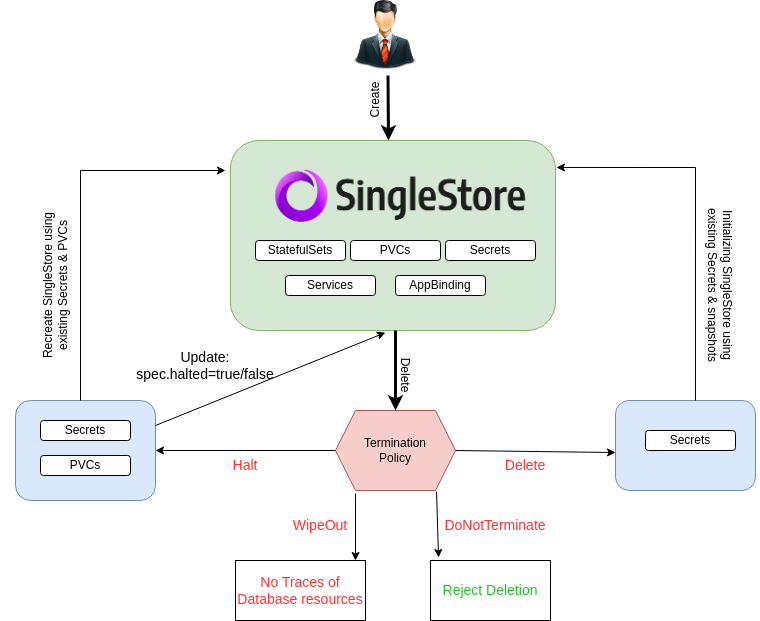
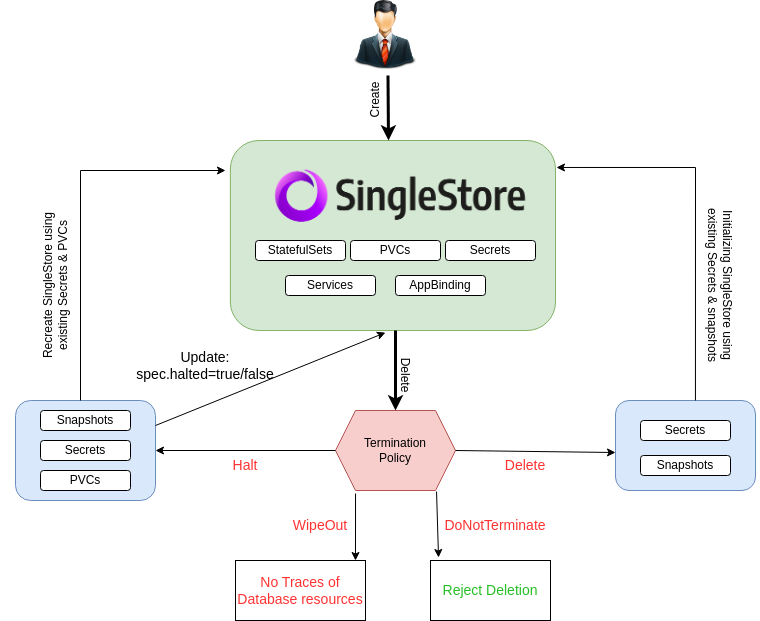
Fixed Review stuffs

Changed region(s): [[0.0303, 0.6425, 0.1816, 0.7955], [0.8171, 0.6731, 0.9684, 0.7649]]

diff --git a/docs/guides/singlestore/quickstart/quickstart.md b/docs/guides/singlestore/quickstart/quickstart.md
@@ -26,8 +26,7 @@ This tutorial will show you how to use KubeDB to run a SingleStore database.
 
 - At first, you need to have a Kubernetes cluster, and the kubectl command-line tool must be configured to communicate with your cluster. If you do not already have a cluster, you can create one by using [kind](https://kind.sigs.k8s.io/docs/user/quick-start/).
 
-- Now, install KubeDB cli on your workstation and KubeDB operator in your cluster following the steps [here](/docs/setup/README.md).
-
+- Now, install KubeDB cli on your workstation and KubeDB operator in your cluster following the steps [here](/docs/setup/README.md) and make sure install with helm command including `--set global.featureGates.Singlestore=true` to ensure SingleStore crd.
 - [StorageClass](https://kubernetes.io/docs/concepts/storage/storage-classes/) is required to run KubeDB. Check the available StorageClass in cluster.
 
   ```bash
@@ -45,7 +44,7 @@ This tutorial will show you how to use KubeDB to run a SingleStore database.
 
 ## Find Available SingleStoreVersion
 
-When you have installed KubeDB, it has created `SinglestoreVersion` crd for all supported SingleStore versions. Check it by using the following command,
+When you have installed KubeDB, it has created `SinglestoreVersion` crd for all supported SingleStore versions. Check it by using the `kubectl get singlestoreversions` command. You can also use `sdbv` shorthand instead of `singlestoreversions`.
 
 ```bash
 $ kubectl get singlestoreversions
@@ -56,7 +55,7 @@ NAME     VERSION   DB_IMAGE                                                     
 ```
 ## Create SingleStore License Secret
 
-We need SingleStore License to create SingleStore Database. So, we will pass the license by a secret.
+We need SingleStore License to create SingleStore Database. So, Ensure that you have acquired a license and then simply pass the license by secret.
 
 ```bash
 $ kubectl create secret generic -n demo license-secret \
@@ -122,6 +121,13 @@ spec:
     name: license-secret
   storageType: Durable
   terminationPolicy: WipeOut
+  serviceTemplates:
+  - alias: primary
+    spec:
+      type: LoadBalancer
+      ports:
+        - name: http
+          port: 9999
 ```
 
 ```bash
@@ -137,12 +143,12 @@ Here,
 - `spec.topology.aggregator.storage` or `spec.topology.leaf.storage` specifies the StorageClass of PVC dynamically allocated to store data for this database. This storage spec will be passed to the StatefulSet created by KubeDB operator to run database pods. You can specify any StorageClass available in your cluster with appropriate resource requests.
 - `spec.terminationPolicy` gives flexibility whether to `nullify`(reject) the delete operation of `Singlestore` crd or which resources KubeDB should keep or delete when you delete `Singlestore` crd. If admission webhook is enabled, It prevents users from deleting the database as long as the `spec.terminationPolicy` is set to `DoNotTerminate`. Learn details of all `TerminationPolicy` [here](/docs/guides/mysql/concepts/database/index.md#specterminationpolicy)
 
-> Note: spec.storage section is used to create PVC for database pod. It will create PVC with storage size specified instorage.resources.requests field. Don't specify limits here. PVC does not get resized automatically.
+> Note: `spec.storage` section is used to create PVC for database pod. It will create PVC with storage size specified in `storage.resources.requests` field. Don't specify limits here. PVC does not get resized automatically.
 
 KubeDB operator watches for `Singlestore` objects using Kubernetes api. When a `Singlestore` object is created, KubeDB operator will create new StatefulSet and Service with the matching SingleStore object name. KubeDB operator will also create a governing service for StatefulSets, if one is not already present.
 
 ```bash
-$ kubectl get petsetset -n demo
+$ kubectl get petset -n demo
 NAME                               READY   AGE
 sdb-quickstart-leaf                2/2     33s
 sdb-quickstart-aggregator          1/1     37s
@@ -157,26 +163,31 @@ pvc-4f45c51b-47d4-4254-8275-782bf3588667   10Gi       RWO            Delete     
 pvc-75057e3d-e1d7-4770-905b-6049f2edbcde   1Gi        RWO            Delete           Bound    demo/data-sdb-quickstart-master-aggregator-0   standard       <unset>                          91s
 pvc-769e68f4-80a9-4e3e-b2bc-e974534b9dee   10Gi       RWO            Delete           Bound    demo/data-sdb-quickstart-leaf-1                standard       <unset>                          80s
 $ kubectl get service -n demo
-NAME                  TYPE        CLUSTER-IP   EXTERNAL-IP   PORT(S)    AGE
-sdb-quickstart        ClusterIP   10.96.6.30   <none>        3306/TCP   112s
-sdb-quickstart-pods   ClusterIP   None         <none>        3306/TCP   112s
+NAME                  TYPE           CLUSTER-IP     EXTERNAL-IP   PORT(S)                         AGE
+sdb-quickstart        LoadBalancer   10.96.27.144   192.10.25.36  3306:32076/TCP,8081:30910/TCP   2m1s
+sdb-quickstart-pods   ClusterIP      None           <none>        3306/TCP                        2m1s
+
 ```
 
 KubeDB operator sets the `status.phase` to `Running` once the database is successfully created. Run the following command to see the modified Singlestore object:
 
 ```yaml
 ➤ kubectl get sdb -n demo sdb-quickstart -oyaml
-apiVersion: kubedb.com/v1alpha2
+
+ apiVersion: kubedb.com/v1alpha2
 kind: Singlestore
 metadata:
   annotations:
     kubectl.kubernetes.io/last-applied-configuration: |
-      {"apiVersion":"kubedb.com/v1alpha2","kind":"Singlestore","metadata":{"annotations":{},"name":"sdb-quickstart","namespace":"demo"},"spec":{"licenseSecret":{"name":"license-secret"},"storageType":"Durable","terminationPolicy":"WipeOut","topology":{"aggregator":{"replicas":1,"storage":{"accessModes":["ReadWriteOnce"],"resources":{"requests":{"storage":"1Gi"}},"storageClassName":"standard"}},"leaf":{"replicas":2,"storage":{"accessModes":["ReadWriteOnce"],"resources":{"requests":{"storage":"10Gi"}},"storageClassName":"standard"}}},"version":"8.1.32"}}
-  creationTimestamp: "2024-01-24T05:11:46Z"
+      {"apiVersion":"kubedb.com/v1alpha2","kind":"Singlestore","metadata":{"annotations":{},"name":"sdb-quickstart","namespace":"demo"},"spec":{"licenseSecret":{"name":"license-secret"},"serviceTemplates":[{"alias":"primary","spec":{"ports":[{"name":"http","port":9999}],"type":"LoadBalancer"}}],"storageType":"Durable","terminationPolicy":"WipeOut","topology":{"aggregator":{"podTemplate":{"spec":{"containers":[{"name":"singlestore","resources":{"limits":{"cpu":"0.5","memory":"2Gi"},"requests":{"cpu":"0.5","memory":"2Gi"}}}]}},"replicas":1,"storage":{"accessModes":["ReadWriteOnce"],"resources":{"requests":{"storage":"1Gi"}},"storageClassName":"standard"}},"leaf":{"podTemplate":{"spec":{"containers":[{"name":"singlestore","resources":{"limits":{"cpu":"0.5","memory":"2Gi"},"requests":{"cpu":"0.5","memory":"2Gi"}}}]}},"replicas":2,"storage":{"accessModes":["ReadWriteOnce"],"resources":{"requests":{"storage":"10Gi"}},"storageClassName":"standard"}}},"version":"8.5.7"}}
+  creationTimestamp: "2024-05-06T06:52:58Z"
   finalizers:
   - kubedb.com
+  generation: 2
   name: sdb-quickstart
   namespace: demo
+  resourceVersion: "448498"
+  uid: 29d6a814-e801-45b5-8217-b59fc77d84e5
 spec:
   authSecret:
     name: sdb-quickstart-root-cred
@@ -186,17 +197,35 @@ spec:
     timeoutSeconds: 10
   licenseSecret:
     name: license-secret
+  podPlacementPolicy:
+    name: default
+  serviceTemplates:
+  - alias: primary
+    metadata: {}
+    spec:
+      ports:
+      - name: http
+        port: 9999
+      type: LoadBalancer
   storageType: Durable
   terminationPolicy: WipeOut
   topology:
     aggregator:
+      podPlacementPolicy:
+        name: default
       podTemplate:
         controller: {}
         metadata: {}
         spec:
           containers:
           - name: singlestore
-            resources: {}
+            resources:
+              limits:
+                cpu: 500m
+                memory: 2Gi
+              requests:
+                cpu: 500m
+                memory: 2Gi
             securityContext:
               allowPrivilegeEscalation: false
               capabilities:
@@ -208,7 +237,12 @@ spec:
               seccompProfile:
                 type: RuntimeDefault
           - name: singlestore-coordinator
-            resources: {}
+            resources:
+              limits:
+                memory: 256Mi
+              requests:
+                cpu: 200m
+                memory: 256Mi
             securityContext:
               allowPrivilegeEscalation: false
               capabilities:
@@ -221,7 +255,12 @@ spec:
                 type: RuntimeDefault
           initContainers:
           - name: singlestore-init
-            resources: {}
+            resources:
+              limits:
+                memory: 512Mi
+              requests:
+                cpu: 200m
+                memory: 512Mi
             securityContext:
               allowPrivilegeEscalation: false
               capabilities:
@@ -243,13 +282,21 @@ spec:
             storage: 1Gi
         storageClassName: standard
     leaf:
+      podPlacementPolicy:
+        name: default
       podTemplate:
         controller: {}
         metadata: {}
         spec:
           containers:
           - name: singlestore
-            resources: {}
+            resources:
+              limits:
+                cpu: 500m
+                memory: 2Gi
+              requests:
+                cpu: 500m
+                memory: 2Gi
             securityContext:
               allowPrivilegeEscalation: false
               capabilities:
@@ -261,7 +308,12 @@ spec:
               seccompProfile:
                 type: RuntimeDefault
           - name: singlestore-coordinator
-            resources: {}
+            resources:
+              limits:
+                memory: 256Mi
+              requests:
+                cpu: 200m
+                memory: 256Mi
             securityContext:
               allowPrivilegeEscalation: false
               capabilities:
@@ -274,7 +326,12 @@ spec:
                 type: RuntimeDefault
           initContainers:
           - name: singlestore-init
-            resources: {}
+            resources:
+              limits:
+                memory: 512Mi
+              requests:
+                cpu: 200m
+                memory: 512Mi
             securityContext:
               allowPrivilegeEscalation: false
               capabilities:
@@ -298,37 +355,38 @@ spec:
   version: 8.5.7
 status:
   conditions:
-  - lastTransitionTime: "2024-01-24T05:11:46Z"
+  - lastTransitionTime: "2024-05-06T06:53:06Z"
     message: 'The KubeDB operator has started the provisioning of Singlestore: demo/sdb-quickstart'
     observedGeneration: 2
     reason: DatabaseProvisioningStartedSuccessfully
     status: "True"
     type: ProvisioningStarted
-  - lastTransitionTime: "2024-01-24T05:19:34Z"
+  - lastTransitionTime: "2024-05-06T06:56:05Z"
     message: All Aggregator replicas are ready for Singlestore demo/sdb-quickstart
-    observedGeneration: 3
+    observedGeneration: 2
     reason: AllReplicasReady
     status: "True"
     type: ReplicaReady
-  - lastTransitionTime: "2024-01-24T05:13:02Z"
+  - lastTransitionTime: "2024-05-06T06:54:17Z"
     message: database demo/sdb-quickstart is accepting connection
-    observedGeneration: 3
+    observedGeneration: 2
     reason: AcceptingConnection
     status: "True"
     type: AcceptingConnection
-  - lastTransitionTime: "2024-01-24T05:13:02Z"
+  - lastTransitionTime: "2024-05-06T06:54:17Z"
     message: database demo/sdb-quickstart is ready
-    observedGeneration: 3
+    observedGeneration: 2
     reason: AllReplicasReady
     status: "True"
     type: Ready
-  - lastTransitionTime: "2024-01-24T05:13:08Z"
+  - lastTransitionTime: "2024-05-06T06:54:18Z"
     message: 'The Singlestore: demo/sdb-quickstart is successfully provisioned.'
-    observedGeneration: 3
+    observedGeneration: 2
     reason: DatabaseSuccessfullyProvisioned
     status: "True"
     type: Provisioned
   phase: Ready
+ 
 
 ```
 
@@ -383,7 +441,7 @@ $ kubectl exec -it -n demo sdb-quickstart-aggregator-0 -- bash
 ```
 You can also connect with database management tools like [singlestore-studio](https://docs.singlestore.com/db/v8.5/reference/singlestore-tools-reference/singlestore-studio/)
 
-Just you need to port-forward on 8081 port
+You can simply access to SingleStore studio by forwarding the Primary service port to any of your localhost port. Or, Accessing through ExternalP's 8081 port is also an option.
 
 ```bash
 $ kubectl port-forward -n demo service/sdb-quickstart 8081
@@ -467,7 +525,7 @@ singlestore.kubedb.com "sdb-quickstart" deleted
 Now, run the following command to get all singlestore resources in `demo` namespaces,
 
 ```bash
-$ kubectl get sts,svc,secret,pvc -n demo
+$ kubectl get petset,svc,secret,pvc -n demo
 NAME                              TYPE                       DATA   AGE
 secret/sdb-quickstart-root-cred   kubernetes.io/basic-auth   2      17m
 
@@ -491,7 +549,7 @@ singlestore.kubedb.com "singlestore-quickstart" deleted
 Now, run the following command to get all singlestore resources in `demo` namespaces,
 
 ```bash
-$ kubectl get sts,svc,secret,pvc -n demo
+$ kubectl get petset,svc,secret,pvc -n demo
 No resources found in demo namespace.
 ```
 

diff --git a/docs/guides/singlestore/README.md b/docs/guides/singlestore/README.md
@@ -20,20 +20,22 @@ SingleStore, a distributed SQL database for real-time analytics, transactional w
 
 ## Supported SingleStore Features
 
-| Features                                                | Availability |
-|---------------------------------------------------------|:------------:|
-| Clustering                                              |   &#10003;   |
-| Authentication & Authorization                          |   &#10003;   |
-| Initialize using Script (\*.sql, \*sql.gz and/or \*.sh) |   &#10003;   |
-| Custom Configuration                                    |   &#10003;   |
-| TLS                                                     |   &#10003;   |
-| Monitoring with Prometheus & Grafana                    |   &#10003;   |
-| Builtin Prometheus Discovery                            |   &#10003;   |
-| Using Prometheus operator                               |   &#10003;   |
-| Externally manageable Auth Secret                       |   &#10003;   |
-| Reconfigurable Health Checker                           |   &#10003;   |
-| Persistent volume                                       |   &#10003;   | 
-| SingleStore Studio (UI)                                 |   &#10003;   |
+| Features                                                                   | Availability |
+|----------------------------------------------------------------------------|:------------:|
+| Clustering                                                                 |   &#10003;   |
+| Authentication & Authorization                                             |   &#10003;   |
+| Initialize using Script (\*.sql, \*sql.gz and/or \*.sh)                    |   &#10003;   |
+| Backup/Recovery: Instant, Scheduled ( [KubeStash](https://kubestash.com/)) |   &#10003;   |
+| Custom Configuration                                                       |   &#10003;   |
+| Initializing from Snapshot ( [KubeStash](https://kubestash.com/))          |   &#10003;   |
+| TLS: Add ( [Cert Manager]((https://cert-manager.io/docs/)))                |   &#10003;   |
+| Monitoring with Prometheus & Grafana                                       |   &#10003;   |
+| Builtin Prometheus Discovery                                               |   &#10003;   |
+| Using Prometheus operator                                                  |   &#10003;   |
+| Externally manageable Auth Secret                                          |   &#10003;   |
+| Reconfigurable Health Checker                                              |   &#10003;   |
+| Persistent volume                                                          |   &#10003;   | 
+| SingleStore Studio (UI)                                                    |   &#10003;   |
 
 
 ## Supported SingleStore Versions
